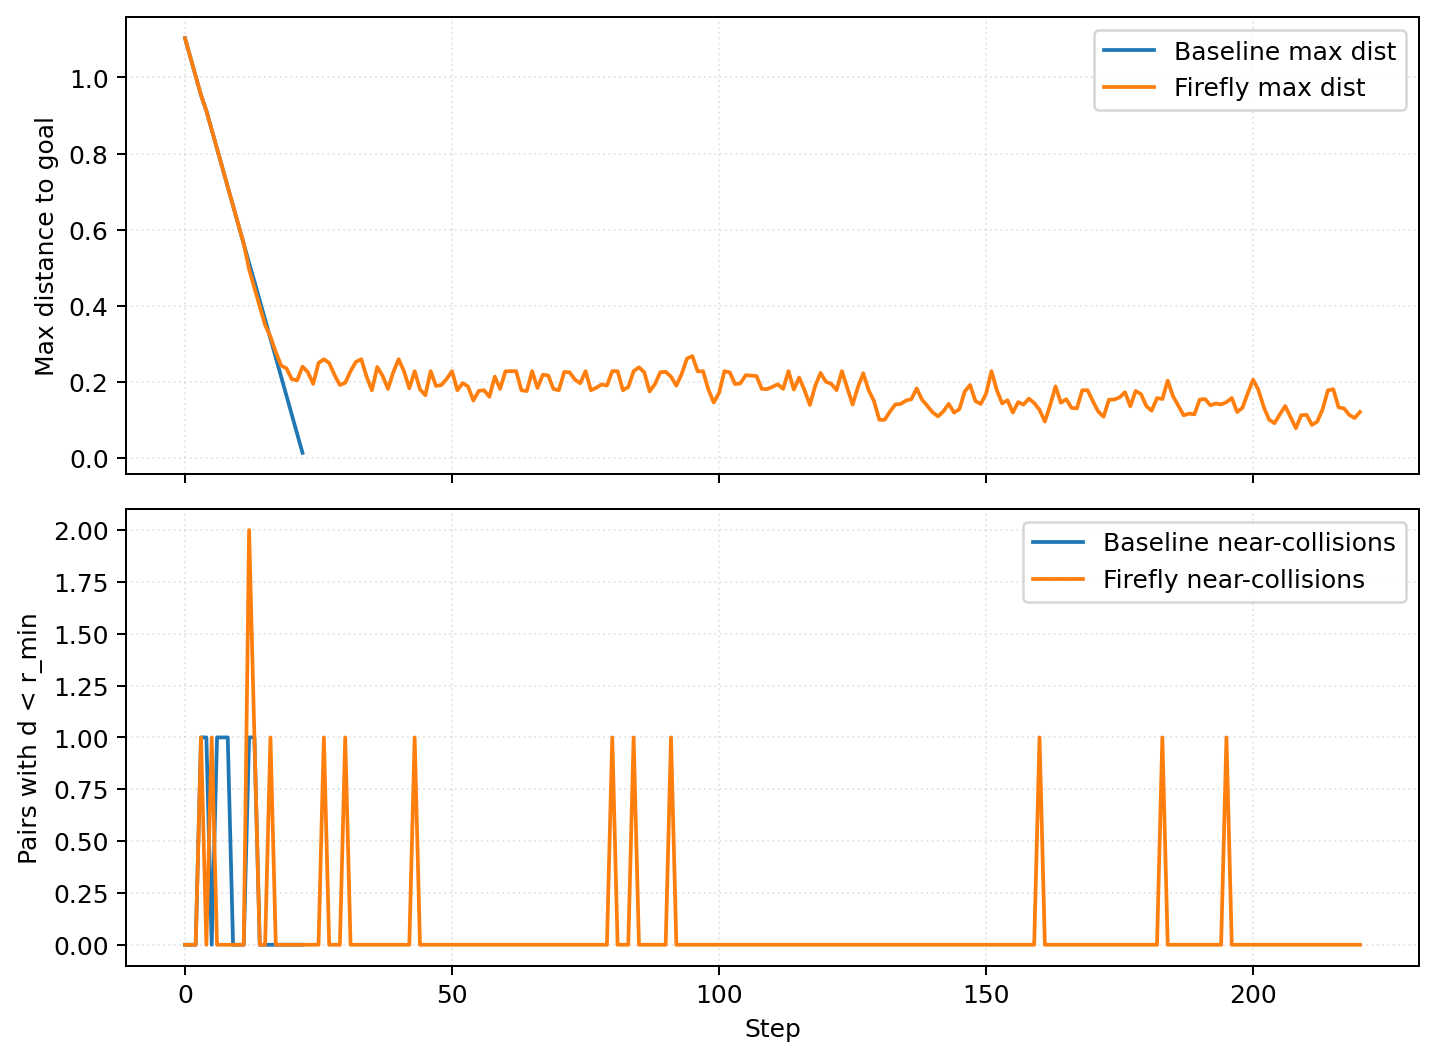
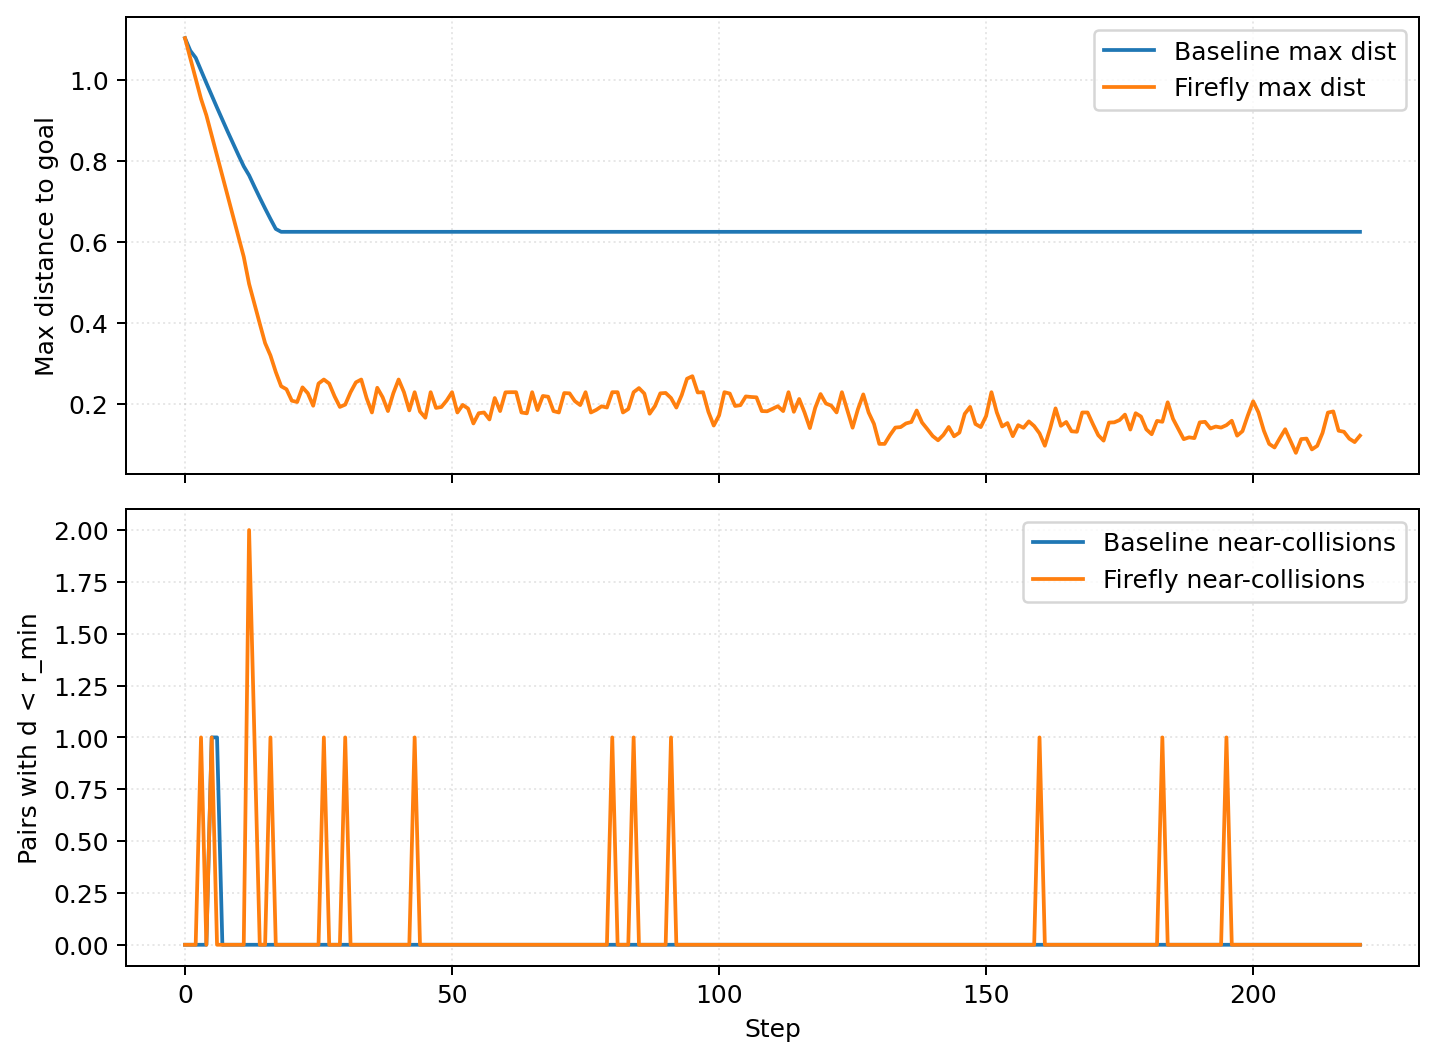
made baseline discrete

diff --git a/mapf_fpso_poc/baseline.py b/mapf_fpso_poc/baseline.py
@@ -6,85 +6,47 @@ import random
 from typing import Sequence
 
 from mapf_fpso_poc.env import GridWorld
+from mapf_fpso_poc import discrete
 
 
 @dataclass
 class BaselineAgent:
     pos: tuple[float, float]
-    vel: tuple[float, float]
     start: tuple[float, float]
     goal: tuple[float, float]
-
-
-def _add(a: Sequence[float], b: Sequence[float]) -> tuple[float, float]:
-    return (float(a[0] + b[0]), float(a[1] + b[1]))
-
-
-def _sub(a: Sequence[float], b: Sequence[float]) -> tuple[float, float]:
-    return (float(a[0] - b[0]), float(a[1] - b[1]))
-
-
-def _mul(k: float, v: Sequence[float]) -> tuple[float, float]:
-    return (float(k * v[0]), float(k * v[1]))
 
 
 def _norm(v: Sequence[float]) -> float:
     return math.sqrt(float(v[0]) * float(v[0]) + float(v[1]) * float(v[1]))
 
 
+def _sub(a: Sequence[float], b: Sequence[float]) -> tuple[float, float]:
+    return (float(a[0] - b[0]), float(a[1] - b[1]))
+
+
 def step_baseline(
     env: GridWorld,
     agents: list[BaselineAgent],
     rng: random.Random,
-    *,
-    v_max: float = 0.05,
-    r_min: float = 0.06,
-    repulse_gain: float = 0.03,
-    noise: float = 0.0,
 ) -> dict[str, float]:
-    """Baseline controller for comparison.
+    """Discrete MAPF-style baseline: one grid move per agent per timestep.
 
-    Behavior:
-    - move directly toward goal (clipped by v_max)
-    - project into free space if landing in obstacle
-    - simple local repulsion within r_min
-
-    This is intentionally simpler than the Firefly/FPSO update (no peer attraction,
-    no brightness, no personal-best memory).
+    Each agent greedily picks a 4-connected neighbor (or wait) that reduces
+    Manhattan distance to its goal, with vertex/swap conflict resolution.
     """
+    del rng  # reserved for future tie-breaking
 
-    positions = [a.pos for a in agents]
+    current_cells = [discrete.pos_to_cell(env, a.pos) for a in agents]
+    proposed: list[tuple[int, int]] = []
+
     for i, a in enumerate(agents):
-        to_goal = _sub(a.goal, a.pos)
-        d = _norm(to_goal)
-        if d > 1e-9:
-            v_goal = _mul(min(v_max, d) / d, to_goal)
-        else:
-            v_goal = (0.0, 0.0)
+        occ = {current_cells[j] for j in range(len(agents)) if j != i}
+        proposed.append(discrete.greedy_next_cell(env, a.pos, a.goal, blocked=occ))
 
-        repulse = (0.0, 0.0)
-        for j, op in enumerate(positions):
-            if j == i:
-                continue
-            dvec = _sub(a.pos, op)
-            dist = _norm(dvec)
-            if 1e-9 < dist < r_min:
-                repulse = _add(
-                    repulse,
-                    _mul(repulse_gain * (r_min - dist) / (r_min * dist), dvec),
-                )
+    final_cells = discrete.resolve_simultaneous_moves(env, current_cells, proposed)
 
-        noise_vec = (noise * rng.gauss(0.0, 1.0), noise * rng.gauss(0.0, 1.0)) if noise > 0 else (0.0, 0.0)
-        v = _add(_add(v_goal, repulse), noise_vec)
-
-        speed = _norm(v)
-        if speed > v_max:
-            v = _mul(v_max / speed, v)
-
-        a.vel = v
-
-    for a in agents:
-        a.pos = env.project_to_free(_add(a.pos, a.vel))
+    for a, cell in zip(agents, final_cells):
+        a.pos = discrete.cell_to_pos(env, cell)
 
     mean_goal_dist = float(sum(_norm(_sub(a.goal, a.pos)) for a in agents) / max(1, len(agents)))
     return {"mean_goal_dist": mean_goal_dist}
@@ -96,12 +58,11 @@ def run_episode_baseline(
     goals: list[tuple[float, float]],
     steps: int,
     seed: int = 0,
-    stop_at_goal_radius: float = 0.03,
     **step_kwargs,
 ) -> dict[str, object]:
     rng = random.Random(seed)
     agents = [
-        BaselineAgent(pos=tuple(s), vel=(0.0, 0.0), start=tuple(s), goal=tuple(g))
+        BaselineAgent(pos=tuple(s), start=tuple(s), goal=tuple(g))
         for s, g in zip(starts, goals)
     ]
 
@@ -114,10 +75,9 @@ def run_episode_baseline(
         traj.append([a.pos for a in agents])
         stats.append(s)
 
-        if stop_at_goal_radius > 0:
-            if all(_norm(_sub(a.goal, a.pos)) <= stop_at_goal_radius for a in agents):
-                traj = traj[: t + 2]
-                break
+        if all(discrete.at_goal_cell(env, a.pos, a.goal) for a in agents):
+            traj = traj[: t + 2]
+            break
 
     final_dists = [_norm(_sub(a.goal, a.pos)) for a in agents]
     return {
@@ -127,4 +87,3 @@ def run_episode_baseline(
         "final_goal_dists": final_dists,
         "steps_ran": int(len(traj) - 1),
     }
-

diff --git a/mapf_fpso_poc/discrete.py b/mapf_fpso_poc/discrete.py
@@ -1,0 +1,83 @@
+from __future__ import annotations
+
+from typing import Iterable, Sequence
+
+from mapf_fpso_poc.env import GridWorld
+
+# 4-connected moves on (row=cy, col=cx): stay, N, S, W, E
+DELTAS: tuple[tuple[int, int], ...] = ((0, 0), (-1, 0), (1, 0), (0, -1), (0, 1))
+
+
+def cell_manhattan(a: tuple[int, int], b: tuple[int, int]) -> int:
+    return abs(a[0] - b[0]) + abs(a[1] - b[1])
+
+
+def pos_to_cell(env: GridWorld, pos: Sequence[float]) -> tuple[int, int]:
+    return env.pos_to_cell(pos)
+
+
+def cell_to_pos(env: GridWorld, cell: tuple[int, int]) -> tuple[float, float]:
+    return env.cell_center(cell[0], cell[1])
+
+
+def free_neighbors(env: GridWorld, cell: tuple[int, int]) -> list[tuple[int, int]]:
+    cy, cx = cell
+    out: list[tuple[int, int]] = []
+    for dcy, dcx in DELTAS:
+        ny, nx = cy + dcy, cx + dcx
+        if 0 <= ny < env.height and 0 <= nx < env.width and not env.obstacles[ny][nx]:
+            out.append((ny, nx))
+    return out
+
+
+def at_goal_cell(env: GridWorld, pos: Sequence[float], goal: Sequence[float]) -> bool:
+    return pos_to_cell(env, pos) == pos_to_cell(env, goal)
+
+
+def occupied_cells(env: GridWorld, positions: Iterable[Sequence[float]]) -> set[tuple[int, int]]:
+    return {pos_to_cell(env, p) for p in positions}
+
+
+def greedy_next_cell(
+    env: GridWorld,
+    pos: Sequence[float],
+    goal: Sequence[float],
+    blocked: set[tuple[int, int]],
+) -> tuple[int, int]:
+    """Pick free neighbor (or wait) that most reduces Manhattan distance to goal."""
+    current = pos_to_cell(env, pos)
+    target = pos_to_cell(env, goal)
+    if current == target:
+        return current
+
+    candidates = free_neighbors(env, current)
+    # Vertex constraint: cannot move into a cell occupied by another agent.
+    candidates = [c for c in candidates if c not in blocked or c == current]
+    if not candidates:
+        return current
+    return min(candidates, key=lambda c: cell_manhattan(c, target))
+
+
+def resolve_simultaneous_moves(
+    env: GridWorld,
+    current_cells: list[tuple[int, int]],
+    proposed_cells: list[tuple[int, int]],
+) -> list[tuple[int, int]]:
+    """Resolve vertex conflicts and swap conflicts; conflicting agents wait."""
+    n = len(current_cells)
+    final = list(proposed_cells)
+
+    # Vertex: two agents cannot end in the same cell.
+    for i in range(n):
+        if sum(1 for j in range(n) if final[j] == final[i]) > 1:
+            final[i] = current_cells[i]
+
+    # Edge swap: i: A->B and j: B->A at the same time.
+    for i in range(n):
+        for j in range(i + 1, n):
+            if final[i] == current_cells[j] and final[j] == current_cells[i]:
+                if current_cells[i] != current_cells[j]:
+                    final[i] = current_cells[i]
+                    final[j] = current_cells[j]
+
+    return final

diff --git a/backtester/clean.py b/backtester/clean.py
@@ -59,14 +59,14 @@ def build_stock_data(stocks: list[str], max_workers: int = 20) -> StockData:
 
 
 @lru_cache(maxsize=1)
-def _load_sp500_symbols() -> list[str]:
+def load_sp500_symbols() -> list[str]:
     table = pd.read_csv(SP500_TICKERS_URL)
     return [symbol.replace(".", "-") for symbol in table["Symbol"].tolist()]
 
 
 def get_sp500_tickers(max_tickers: int | None = 50) -> list[str]:
     """S&P 500 symbols from the constituents CSV (Yahoo-style tickers)."""
-    tickers = _load_sp500_symbols()
+    tickers = load_sp500_symbols()
     if max_tickers is None:
         return tickers
     return tickers[:max_tickers]

diff --git a/mapf_fpso_poc/analysis/run_analysis.py b/mapf_fpso_poc/analysis/run_analysis.py
@@ -106,7 +106,7 @@ def _run_single_scenario(
 
 def plot_trajectories(env: GridWorld, starts, goals, baseline_traj, firefly_traj, out_path: Path) -> None:
     fig, axes = plt.subplots(1, 2, figsize=(10, 5), sharex=True, sharey=True)
-    titles = ["Baseline (goal-seeking)", "Firefly/FPSO swarm"]
+    titles = ["Baseline (discrete MAPF, greedy)", "Firefly/FPSO (continuous swarm)"]
 
     for ax, traj, title in zip(axes, [baseline_traj, firefly_traj], titles):
         ax.set_title(title)

diff --git a/mapf_fpso_poc/demo.py b/mapf_fpso_poc/demo.py
@@ -46,7 +46,7 @@ def main():
 
     if not args.no_baseline:
         baseline = run_episode_baseline(env, starts, goals, steps=args.steps, seed=args.seed)
-        _print_summary("BASELINE", baseline)
+        _print_summary("BASELINE (discrete grid)", baseline)
         print("")
 
     result = run_episode(env, starts, goals, steps=args.steps, seed=args.seed)

diff --git a/mapf_fpso_poc/README.md b/mapf_fpso_poc/README.md
@@ -6,8 +6,9 @@ same **Firefly-style attraction kernel** you already use elsewhere in this repo.
 
 ### What it does
 
-- Continuous 2D bounded world \(X \subset \mathbb{R}^2\) with **grid obstacles**
-- Multiple agents with start/goal
+- **Grid world** with obstacles (agents live on cell centers in \([0,1]^2\))
+- **Baseline** = classical-style **discrete MAPF**: one 4-connected move (N/S/E/W/wait) per agent per timestep, with vertex/swap conflict handling
+- **Firefly/FPSO** = **continuous** online swarm from the one-pager (velocity + projection); this is the FPSO lift, not a grid solver
 - Online update per timestep:
   - **Brightness** increases as distance-to-goal decreases
   - Agents are attracted toward **brighter peers** (Firefly kernel) and toward goal
